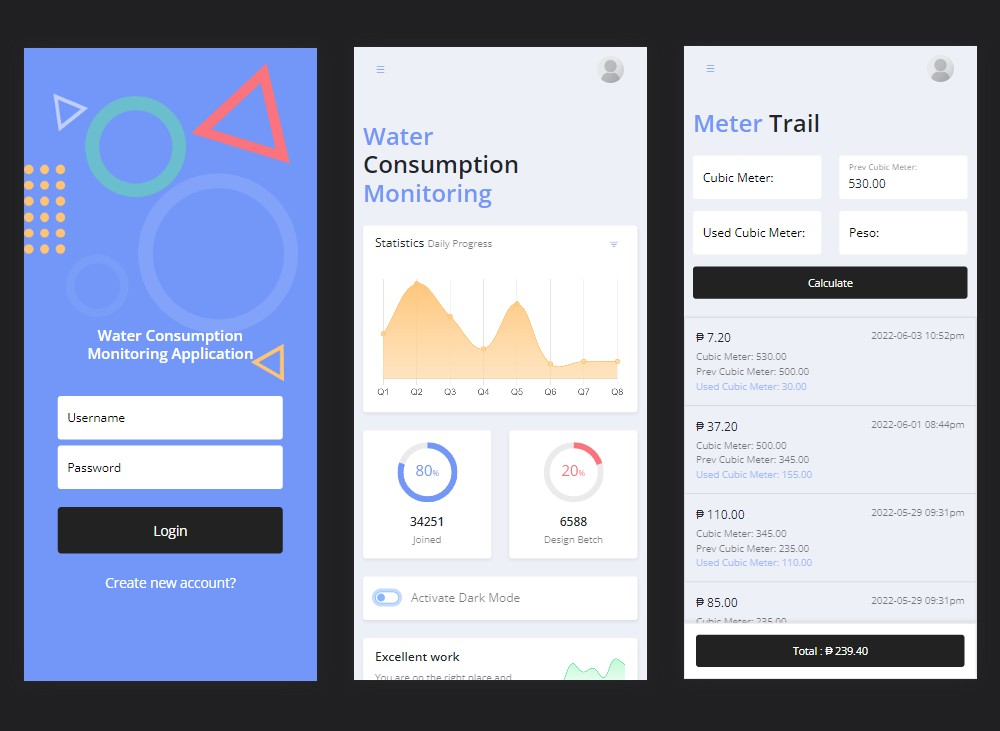
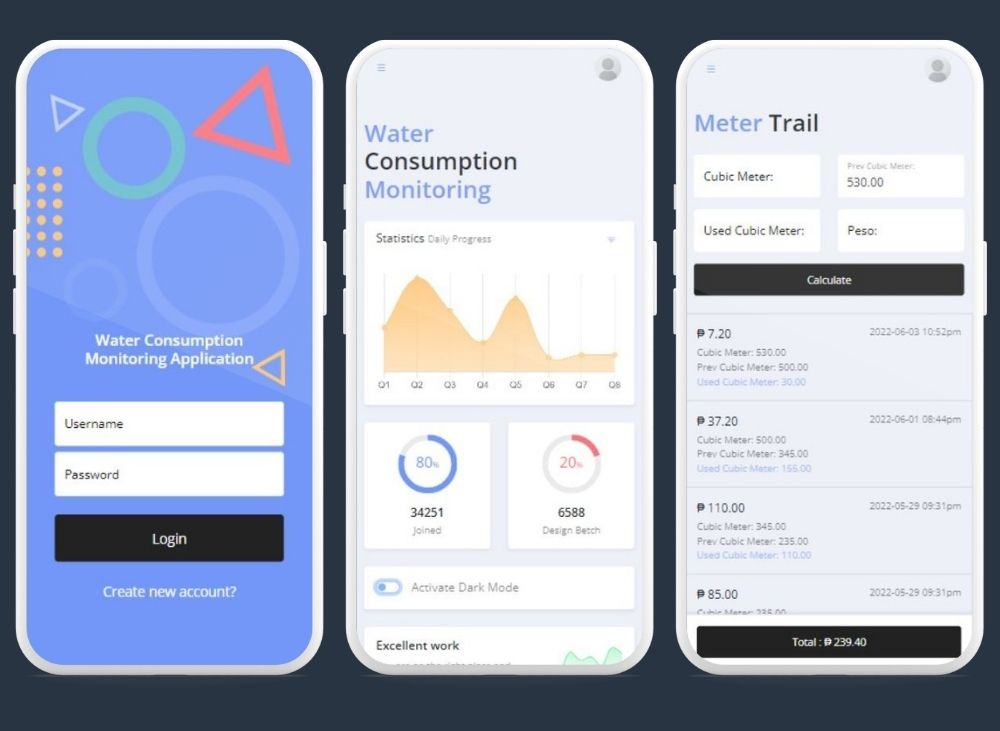
Update portfolio

diff --git a/index.html b/index.html
@@ -149,7 +149,7 @@
                               <span>2021-Present</span>
                            </li>
                            <li>
-                              <h4>Sr. Software Engineer</h4>
+                              <h4>Software Engineering TL</h4>
                               <span>Salesforce & Apex</span> 
                               <span>2020-Present</span>
                            </li>
@@ -329,6 +329,7 @@
                <li><button class="filter" data-filter="1">Web App</button></li>
                <li><button class="filter" data-filter="2">Desktop App</button></li>
                <li><button class="filter" data-filter="3">Mobile App</button></li>
+               <li><button class="filter" data-filter="4">Game</button></li>
             </ul>
             <!-- Portfolio Navigation End -->            
             <div class="row work-gallery">
@@ -395,8 +396,8 @@
                <!-- Single Work Item Start -->               
                <div class="col-sm-4 col-xs-6 filtr-item" data-category="3">
                   <div class="work-item">
-                     <a href="assets/images/wrk4.jpg" title="Water Consumption Monitoring">
-                        <img class="img-responsive" src="assets/images/wrk4.jpg" alt="Water Consumption Monitoring">
+                     <a href="assets/images/wrk4.jpg?v=1.0" title="Water Consumption Monitoring">
+                        <img class="img-responsive" src="assets/images/wrk4.jpg?v=1.0" alt="Water Consumption Monitoring">
                         <div class="project-detail">
                            <div class="dta">
                               <h3>Water Consumption Monitoring</h3>
@@ -461,6 +462,66 @@
                            <div class="dta">
                               <h3>Runway Football</h3>
                               <span>Japanese SocMed for Football Players - Web App</span>
+                           </div>
+                        </div>
+                     </a>
+                  </div>
+               </div>
+               <!-- Single Work Item End -->     
+               <!-- Single Work Item Start -->               
+               <div class="col-sm-4 col-xs-6 filtr-item" data-category="3">
+                  <div class="work-item">
+                     <a href="assets/images/wrk10.jpg" title="TrikeRide">
+                        <img class="img-responsive" src="assets/images/wrk10.jpg" alt="TrikeRide">
+                        <div class="project-detail">
+                           <div class="dta">
+                              <h3>TrikeRide</h3>
+                              <span>Tricycle Booking - Mobile App</span>
+                           </div>
+                        </div>
+                     </a>
+                  </div>
+               </div>
+               <!-- Single Work Item End -->   
+               <!-- Single Work Item Start -->               
+               <div class="col-sm-4 col-xs-6 filtr-item" data-category="3">
+                  <div class="work-item">
+                     <a href="assets/images/wrk11.jpg" title="Oyster Detector">
+                        <img class="img-responsive" src="assets/images/wrk11.jpg" alt="Oyster Detector">
+                        <div class="project-detail">
+                           <div class="dta">
+                              <h3>Oyster Detector</h3>
+                              <span>Detect oysters ready to harvest - Mobile App</span>
+                           </div>
+                        </div>
+                     </a>
+                  </div>
+               </div>
+               <!-- Single Work Item End -->   
+               <!-- Single Work Item Start -->               
+               <div class="col-sm-4 col-xs-6 filtr-item" data-category="1">
+                  <div class="work-item">
+                     <a href="assets/images/wrk12.jpg" title="QuizPro">
+                        <img class="img-responsive" src="assets/images/wrk12.jpg" alt="QuizPro">
+                        <div class="project-detail">
+                           <div class="dta">
+                              <h3>QuizPro</h3>
+                              <span>Generate Questions using ChatGPT 4.0 AI - Web App</span>
+                           </div>
+                        </div>
+                     </a>
+                  </div>
+               </div>
+               <!-- Single Work Item End -->      
+               <!-- Single Work Item Start -->               
+               <div class="col-sm-4 col-xs-6 filtr-item" data-category="4">
+                  <div class="work-item">
+                     <a href="assets/images/wrk13.jpg" title="Number Grabber">
+                        <img class="img-responsive" src="assets/images/wrk13.jpg" alt="Number Grabber">
+                        <div class="project-detail">
+                           <div class="dta">
+                              <h3>Number Grabber</h3>
+                              <span>Grab the correct answer - Mobile Game</span>
                            </div>
                         </div>
                      </a>
